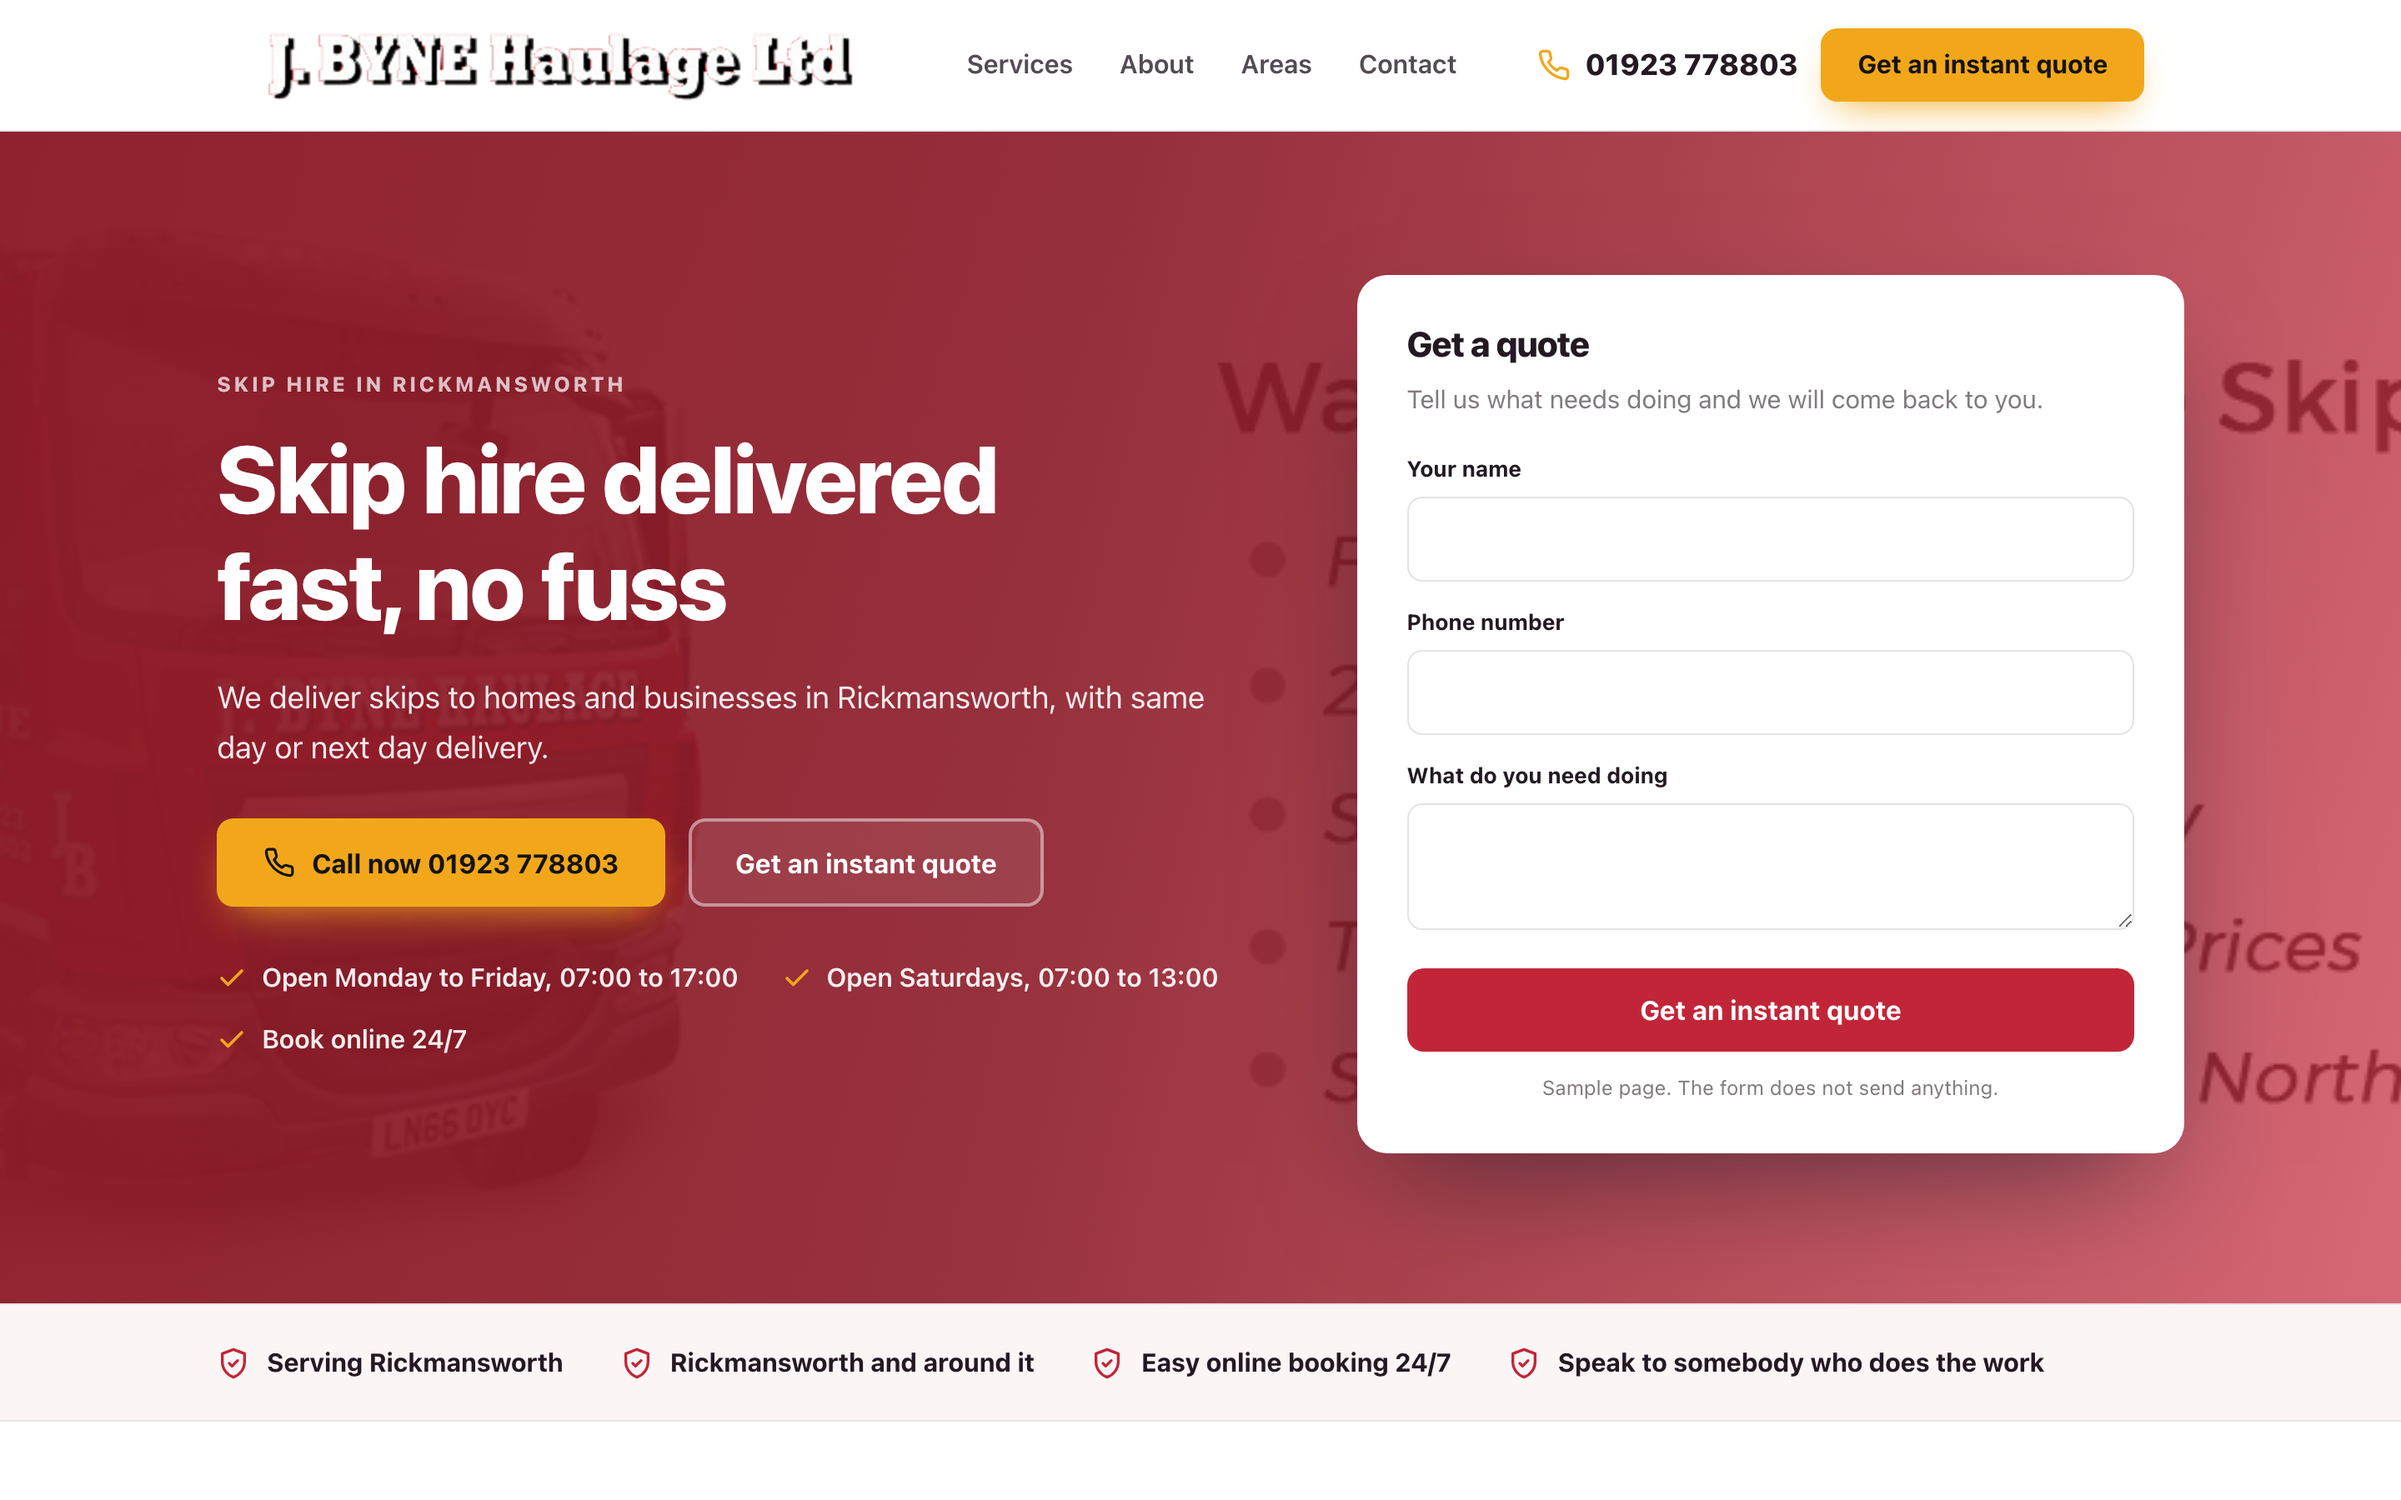
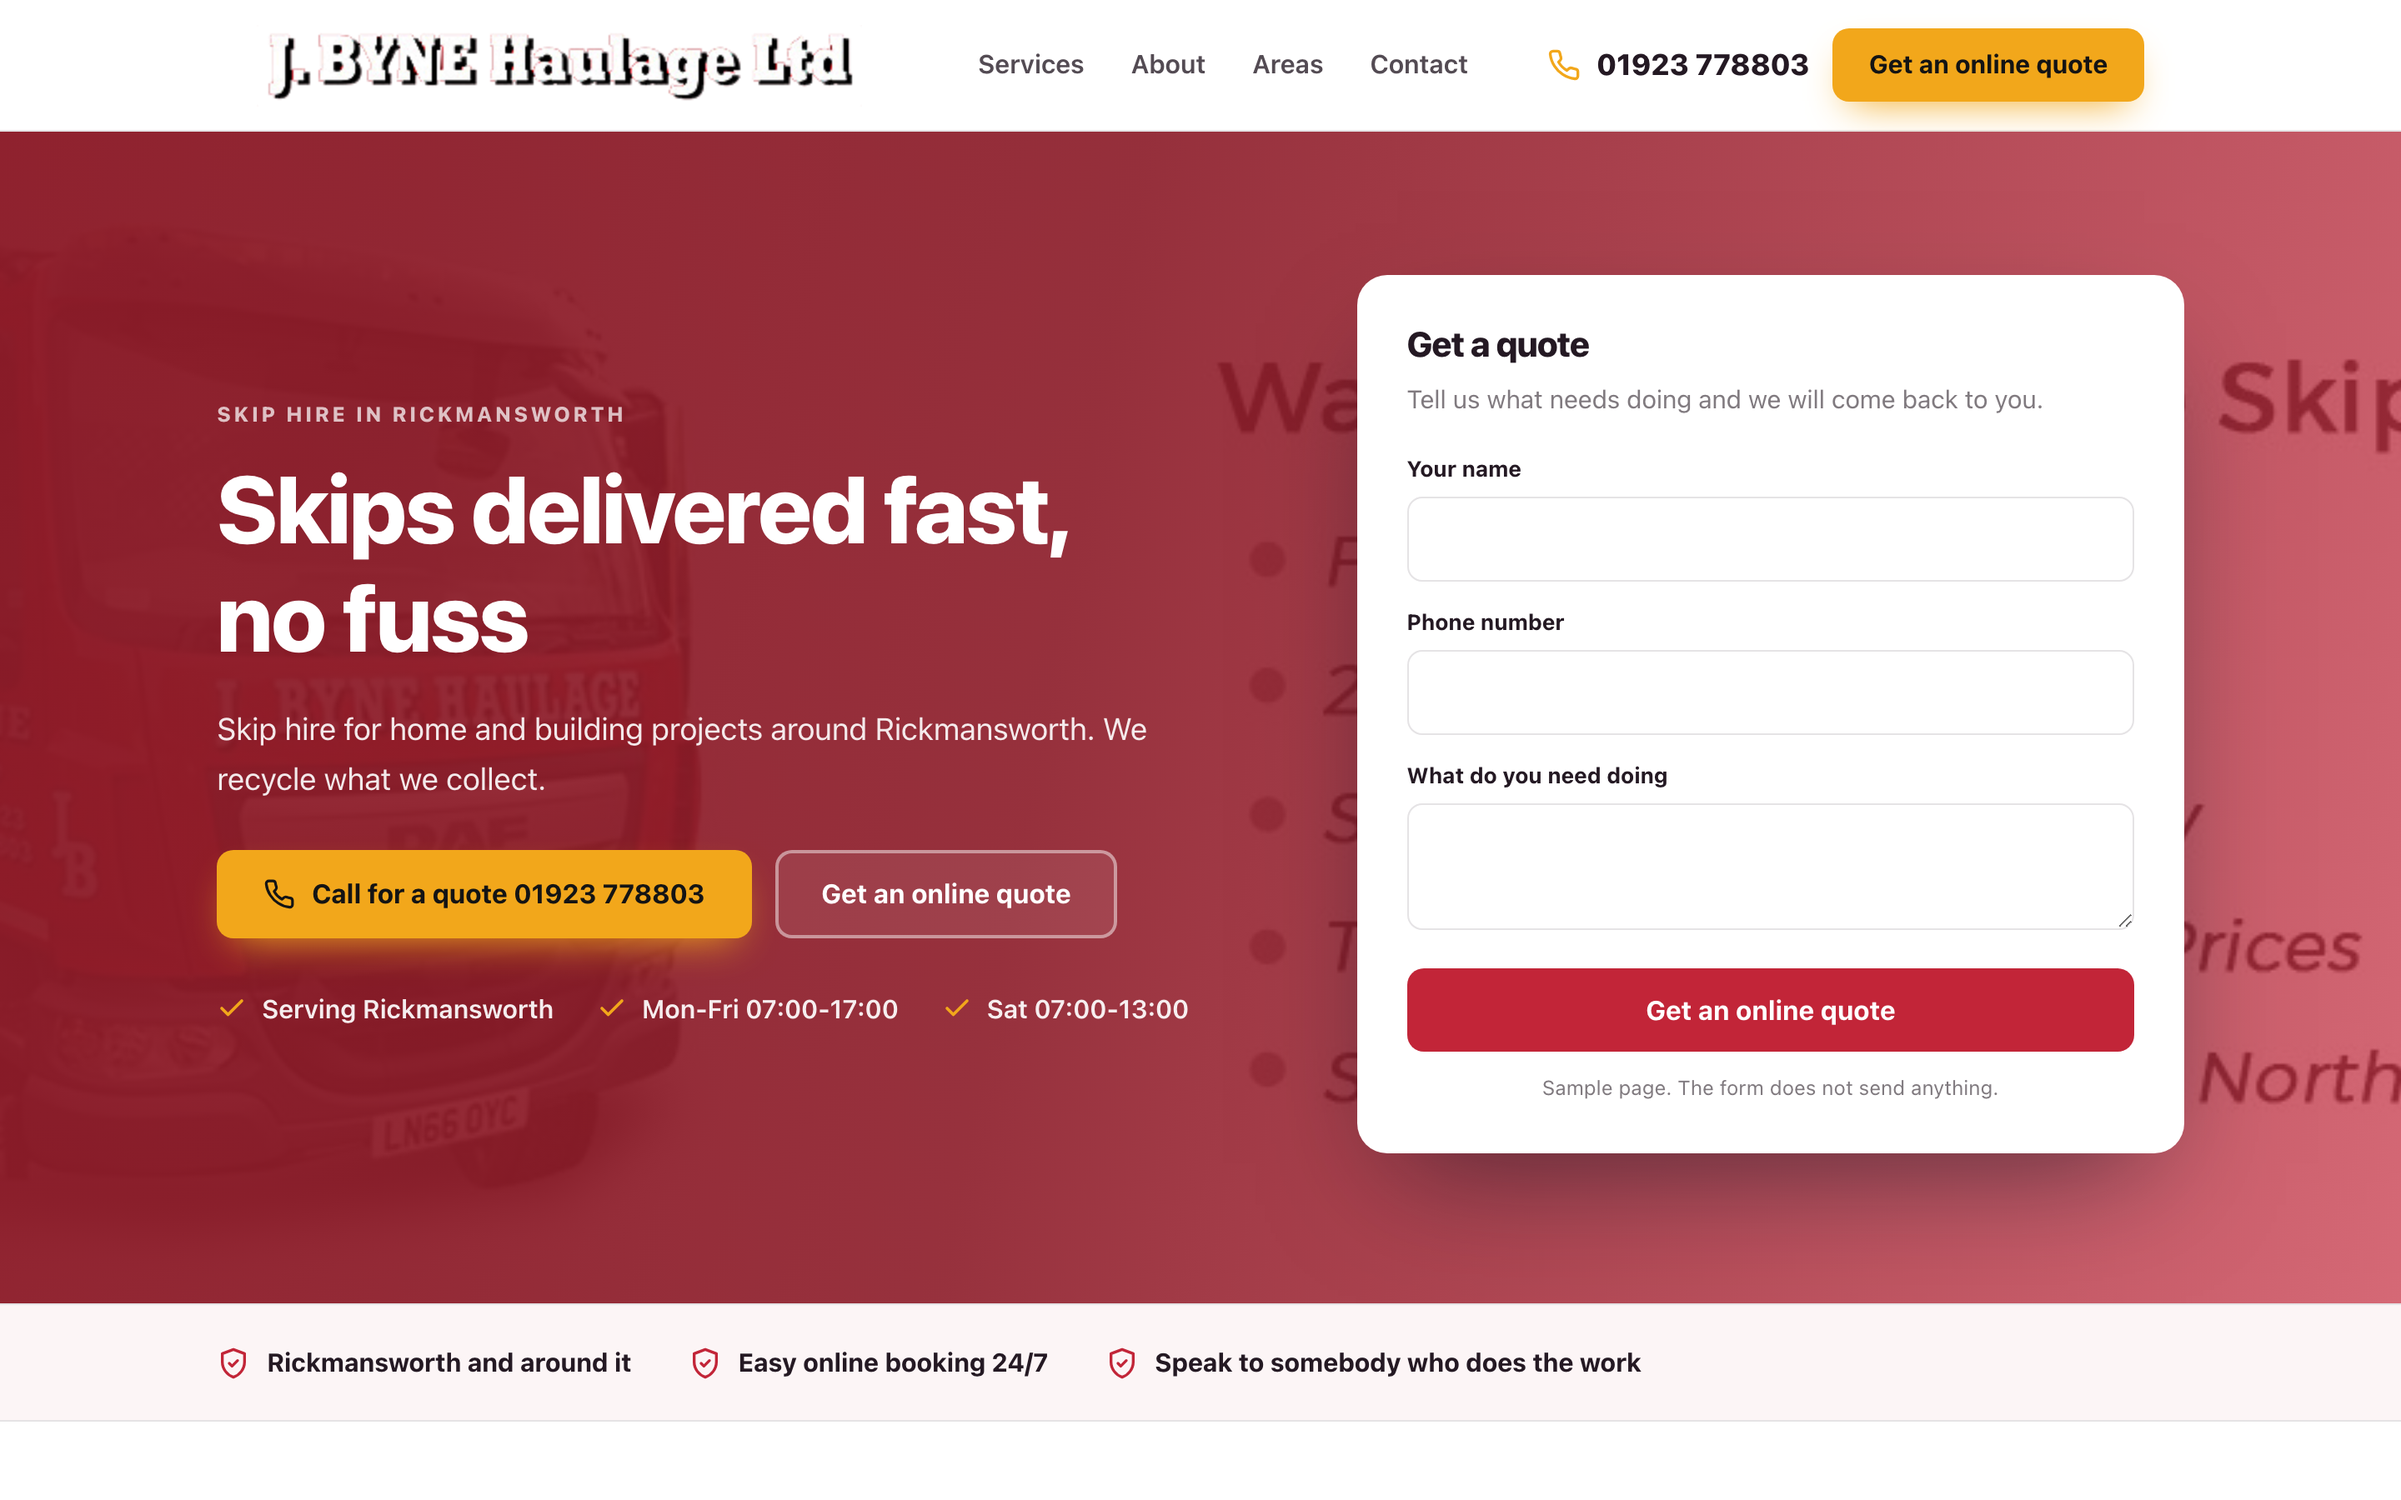
Sample homepage for J Byne Haulage Ltd

diff --git a/docs/9ba6ab866b/index.html b/docs/9ba6ab866b/index.html
@@ -4,14 +4,15 @@
 <meta charset="utf-8">
 <meta name="viewport" content="width=device-width, initial-scale=1">
 <meta name="robots" content="noindex,nofollow">
+<meta name="aso-build" content="">
 <title>J Byne Haulage Ltd sample homepage</title>
-<meta name="description" content="We deliver skips to homes and businesses in Rickmansworth, with same day or next day delivery.">
+<meta name="description" content="Skip hire for home and building projects around Rickmansworth. We recycle what we collect.">
 <link rel="canonical" href="https://markygff.github.io/aso-mockups/9ba6ab866b/">
 <meta property="og:type" content="website">
 <meta property="og:title" content="J Byne Haulage Ltd sample homepage">
-<meta property="og:description" content="We deliver skips to homes and businesses in Rickmansworth, with same day or next day delivery.">
+<meta property="og:description" content="Skip hire for home and building projects around Rickmansworth. We recycle what we collect.">
 <meta property="og:url" content="https://markygff.github.io/aso-mockups/9ba6ab866b/">
-<meta property="og:image" content="https://www.jbynehaulage.co.uk/image/cache/catalog/jbyne/newbanners/home-banner-1600x411.jpg"><style>
+<meta property="og:image" content="img/p01.jpg"><style>
 :root{
   --primary:#c22538;
   --primary-dark:#8c1b28;
@@ -52,7 +53,8 @@ p{margin:0}
 .nav{display:flex;gap:28px;margin-left:auto;font-weight:600;font-size:.97rem;color:var(--ink)}
 .nav span{opacity:.78}
 .header-cta{display:flex;align-items:center;gap:14px;margin-left:28px}
-.tel{display:flex;align-items:center;gap:9px;font-weight:800;font-size:1.1rem;color:var(--ink)}
+.tel{display:flex;align-items:center;gap:9px;font-weight:800;font-size:1.1rem;
+     color:var(--ink);text-decoration:none}
 .tel svg{width:20px;height:20px;color:var(--accent)}
 .header-cta .btn{padding:12px 20px;font-size:.95rem}
 
@@ -119,30 +121,30 @@ p{margin:0}
 <header class="header">
   <div class="wrap header-in">
     <div class="brand">
-<img src="https://www.jbynehaulage.co.uk/image/catalog/jbynelogo.png" alt="J Byne Haulage Ltd logo">    </div>
+<img src="img/logo.png" alt="J Byne Haulage Ltd logo">    </div>
     <nav class="nav">
       <span>Services</span><span>About</span><span>Areas</span><span>Contact</span>
     </nav>
     <div class="header-cta">
-      <span class="tel"><svg viewBox="0 0 24 24" fill="none" stroke="currentColor" stroke-width="2" stroke-linecap="round" stroke-linejoin="round" aria-hidden="true"><path d="M22 16.9v3a2 2 0 0 1-2.2 2 19.8 19.8 0 0 1-8.6-3.1 19.5 19.5 0 0 1-6-6 19.8 19.8 0 0 1-3.1-8.7A2 2 0 0 1 4.1 2h3a2 2 0 0 1 2 1.7c.1 1 .4 1.9.7 2.8a2 2 0 0 1-.5 2.1L8.1 9.9a16 16 0 0 0 6 6l1.3-1.2a2 2 0 0 1 2.1-.5c.9.3 1.8.6 2.8.7a2 2 0 0 1 1.7 2z"/></svg><span>01923 778803</span></span>
-      <span class="btn btn-accent">Get an instant quote</span>
+      <a class="tel" href="tel:+441923778803"><svg viewBox="0 0 24 24" fill="none" stroke="currentColor" stroke-width="2" stroke-linecap="round" stroke-linejoin="round" aria-hidden="true"><path d="M22 16.9v3a2 2 0 0 1-2.2 2 19.8 19.8 0 0 1-8.6-3.1 19.5 19.5 0 0 1-6-6 19.8 19.8 0 0 1-3.1-8.7A2 2 0 0 1 4.1 2h3a2 2 0 0 1 2 1.7c.1 1 .4 1.9.7 2.8a2 2 0 0 1-.5 2.1L8.1 9.9a16 16 0 0 0 6 6l1.3-1.2a2 2 0 0 1 2.1-.5c.9.3 1.8.6 2.8.7a2 2 0 0 1 1.7 2z"/></svg><span>01923 778803</span></a>
+      <span class="btn btn-accent">Get an online quote</span>
     </div>
   </div>
 </header>
 
 <section class="hero">
-  <div class="hero-bg"><img src="https://www.jbynehaulage.co.uk/image/cache/catalog/jbyne/newbanners/home-banner-1600x411.jpg" alt="MacBookAir" width="1600" height="900"></div>
+  <div class="hero-bg"><img src="img/p01.jpg" alt="MacBookAir" width="1600" height="900"></div>
   <div class="wrap hero-in">
     <div>
       <p class="eyebrow">Skip hire in Rickmansworth</p>
-      <h1>Skip hire delivered fast, no fuss</h1>
-      <p class="hero-sub">We deliver skips to homes and businesses in Rickmansworth, with same day or next day delivery.</p>
+      <h1>Skips delivered fast, no fuss</h1>
+      <p class="hero-sub">Skip hire for home and building projects around Rickmansworth. We recycle what we collect.</p>
       <div class="hero-actions">
-        <span class="btn btn-accent"><svg viewBox="0 0 24 24" fill="none" stroke="currentColor" stroke-width="2" stroke-linecap="round" stroke-linejoin="round" aria-hidden="true"><path d="M22 16.9v3a2 2 0 0 1-2.2 2 19.8 19.8 0 0 1-8.6-3.1 19.5 19.5 0 0 1-6-6 19.8 19.8 0 0 1-3.1-8.7A2 2 0 0 1 4.1 2h3a2 2 0 0 1 2 1.7c.1 1 .4 1.9.7 2.8a2 2 0 0 1-.5 2.1L8.1 9.9a16 16 0 0 0 6 6l1.3-1.2a2 2 0 0 1 2.1-.5c.9.3 1.8.6 2.8.7a2 2 0 0 1 1.7 2z"/></svg>Call now 01923 778803</span>
-        <span class="btn btn-ghost">Get an instant quote</span>
+        <span class="btn btn-accent"><svg viewBox="0 0 24 24" fill="none" stroke="currentColor" stroke-width="2" stroke-linecap="round" stroke-linejoin="round" aria-hidden="true"><path d="M22 16.9v3a2 2 0 0 1-2.2 2 19.8 19.8 0 0 1-8.6-3.1 19.5 19.5 0 0 1-6-6 19.8 19.8 0 0 1-3.1-8.7A2 2 0 0 1 4.1 2h3a2 2 0 0 1 2 1.7c.1 1 .4 1.9.7 2.8a2 2 0 0 1-.5 2.1L8.1 9.9a16 16 0 0 0 6 6l1.3-1.2a2 2 0 0 1 2.1-.5c.9.3 1.8.6 2.8.7a2 2 0 0 1 1.7 2z"/></svg>Call for a quote 01923 778803</span>
+        <span class="btn btn-ghost">Get an online quote</span>
       </div>
       <ul class="hero-bullets">
-<li><svg viewBox="0 0 24 24" fill="none" stroke="currentColor" stroke-width="2.4" stroke-linecap="round" stroke-linejoin="round" aria-hidden="true"><path d="M20 6 9 17l-5-5"/></svg><span>Open Monday to Friday, 07:00 to 17:00</span></li><li><svg viewBox="0 0 24 24" fill="none" stroke="currentColor" stroke-width="2.4" stroke-linecap="round" stroke-linejoin="round" aria-hidden="true"><path d="M20 6 9 17l-5-5"/></svg><span>Open Saturdays, 07:00 to 13:00</span></li><li><svg viewBox="0 0 24 24" fill="none" stroke="currentColor" stroke-width="2.4" stroke-linecap="round" stroke-linejoin="round" aria-hidden="true"><path d="M20 6 9 17l-5-5"/></svg><span>Book online 24/7</span></li>      </ul>
+<li><svg viewBox="0 0 24 24" fill="none" stroke="currentColor" stroke-width="2.4" stroke-linecap="round" stroke-linejoin="round" aria-hidden="true"><path d="M20 6 9 17l-5-5"/></svg><span>Serving Rickmansworth</span></li><li><svg viewBox="0 0 24 24" fill="none" stroke="currentColor" stroke-width="2.4" stroke-linecap="round" stroke-linejoin="round" aria-hidden="true"><path d="M20 6 9 17l-5-5"/></svg><span>Mon-Fri 07:00-17:00</span></li><li><svg viewBox="0 0 24 24" fill="none" stroke="currentColor" stroke-width="2.4" stroke-linecap="round" stroke-linejoin="round" aria-hidden="true"><path d="M20 6 9 17l-5-5"/></svg><span>Sat 07:00-13:00</span></li>      </ul>
     </div>
     <div class="quote-card">
       <h3>Get a quote</h3>
@@ -150,7 +152,7 @@ p{margin:0}
       <div class="field"><label>Your name</label><input type="text" disabled></div>
       <div class="field"><label>Phone number</label><input type="tel" disabled></div>
       <div class="field"><label>What do you need doing</label><textarea disabled></textarea></div>
-      <span class="btn btn-primary">Get an instant quote</span>
+      <span class="btn btn-primary">Get an online quote</span>
       <p class="sample-note">Sample page. The form does not send anything.</p>
     </div>
   </div>
@@ -158,7 +160,6 @@ p{margin:0}
 
 <div class="strip">
   <div class="wrap strip-in">
-    <div class="strip-item"><svg viewBox="0 0 24 24" fill="none" stroke="currentColor" stroke-width="2" stroke-linecap="round" stroke-linejoin="round" aria-hidden="true"><path d="M12 2 4 5v6c0 5 3.4 9.4 8 11 4.6-1.6 8-6 8-11V5z"/><path d="m9 12 2 2 4-4"/></svg><span>Serving Rickmansworth</span></div>
     <div class="strip-item"><svg viewBox="0 0 24 24" fill="none" stroke="currentColor" stroke-width="2" stroke-linecap="round" stroke-linejoin="round" aria-hidden="true"><path d="M12 2 4 5v6c0 5 3.4 9.4 8 11 4.6-1.6 8-6 8-11V5z"/><path d="m9 12 2 2 4-4"/></svg><span>Rickmansworth and around it</span></div>
     <div class="strip-item"><svg viewBox="0 0 24 24" fill="none" stroke="currentColor" stroke-width="2" stroke-linecap="round" stroke-linejoin="round" aria-hidden="true"><path d="M12 2 4 5v6c0 5 3.4 9.4 8 11 4.6-1.6 8-6 8-11V5z"/><path d="m9 12 2 2 4-4"/></svg><span>Easy online booking 24/7</span></div>
     <div class="strip-item"><svg viewBox="0 0 24 24" fill="none" stroke="currentColor" stroke-width="2" stroke-linecap="round" stroke-linejoin="round" aria-hidden="true"><path d="M12 2 4 5v6c0 5 3.4 9.4 8 11 4.6-1.6 8-6 8-11V5z"/><path d="m9 12 2 2 4-4"/></svg><span>Speak to somebody who does the work</span></div>
@@ -170,28 +171,28 @@ p{margin:0}
     <div class="services-head">
       <p class="eyebrow">What we do</p>
       <h2>J Byne Haulage Ltd, Rickmansworth</h2>
-      <p>We deliver skips to homes and businesses in Rickmansworth, with same day or next day delivery.</p>
+      <p>Skip hire for home and building projects around Rickmansworth. We recycle what we collect.</p>
     </div>
     <div class="grid">
       <article class="card">
         <div class="icon"><svg viewBox="0 0 24 24" fill="none" stroke="currentColor" stroke-width="2" stroke-linecap="round" stroke-linejoin="round" aria-hidden="true"><path d="M14.7 6.3a4 4 0 0 0 5.3 5.3l-8 8a3 3 0 0 1-4.2-4.2z"/><path d="m14.7 6.3 3-3"/></svg></div>
         <h3>Skip Hire</h3>
-        <p>Skips from 2 yard to 18 yard, delivered fast.</p>
+        <p>Skips from small clearouts to full building jobs.</p>
       </article>
       <article class="card">
         <div class="icon"><svg viewBox="0 0 24 24" fill="none" stroke="currentColor" stroke-width="2" stroke-linecap="round" stroke-linejoin="round" aria-hidden="true"><path d="M13 2 4 14h7l-1 8 9-12h-7z"/></svg></div>
-        <h3>Skips for Home Owners</h3>
-        <p>For building work, house clearances and bulky items.</p>
+        <h3>We recycle your waste</h3>
+        <p>Waste we collect gets sorted and recycled, not landfilled.</p>
       </article>
       <article class="card">
         <div class="icon"><svg viewBox="0 0 24 24" fill="none" stroke="currentColor" stroke-width="2" stroke-linecap="round" stroke-linejoin="round" aria-hidden="true"><path d="M3 10.5 12 3l9 7.5"/><path d="M5 9.5V21h14V9.5"/><path d="M10 21v-6h4v6"/></svg></div>
-        <h3>Building Aggregates</h3>
-        <p>Topsoil, sand, ballast and more delivered to site.</p>
+        <h3>Skips for Home Owners</h3>
+        <p>The right size skip for house clearances and renovations.</p>
       </article>
       <article class="card">
         <div class="icon"><svg viewBox="0 0 24 24" fill="none" stroke="currentColor" stroke-width="2" stroke-linecap="round" stroke-linejoin="round" aria-hidden="true"><path d="M4 20 15 9"/><path d="m14 4 6 6-3 3-6-6z"/><path d="m3 15 6 6"/></svg></div>
-        <h3>We recycle your waste</h3>
-        <p>Waste from your skip goes for recycling, not landfill.</p>
+        <h3>Building Aggregates</h3>
+        <p>Topsoil, sand and ballast delivered to your site.</p>
       </article>
     </div>
   </div>
